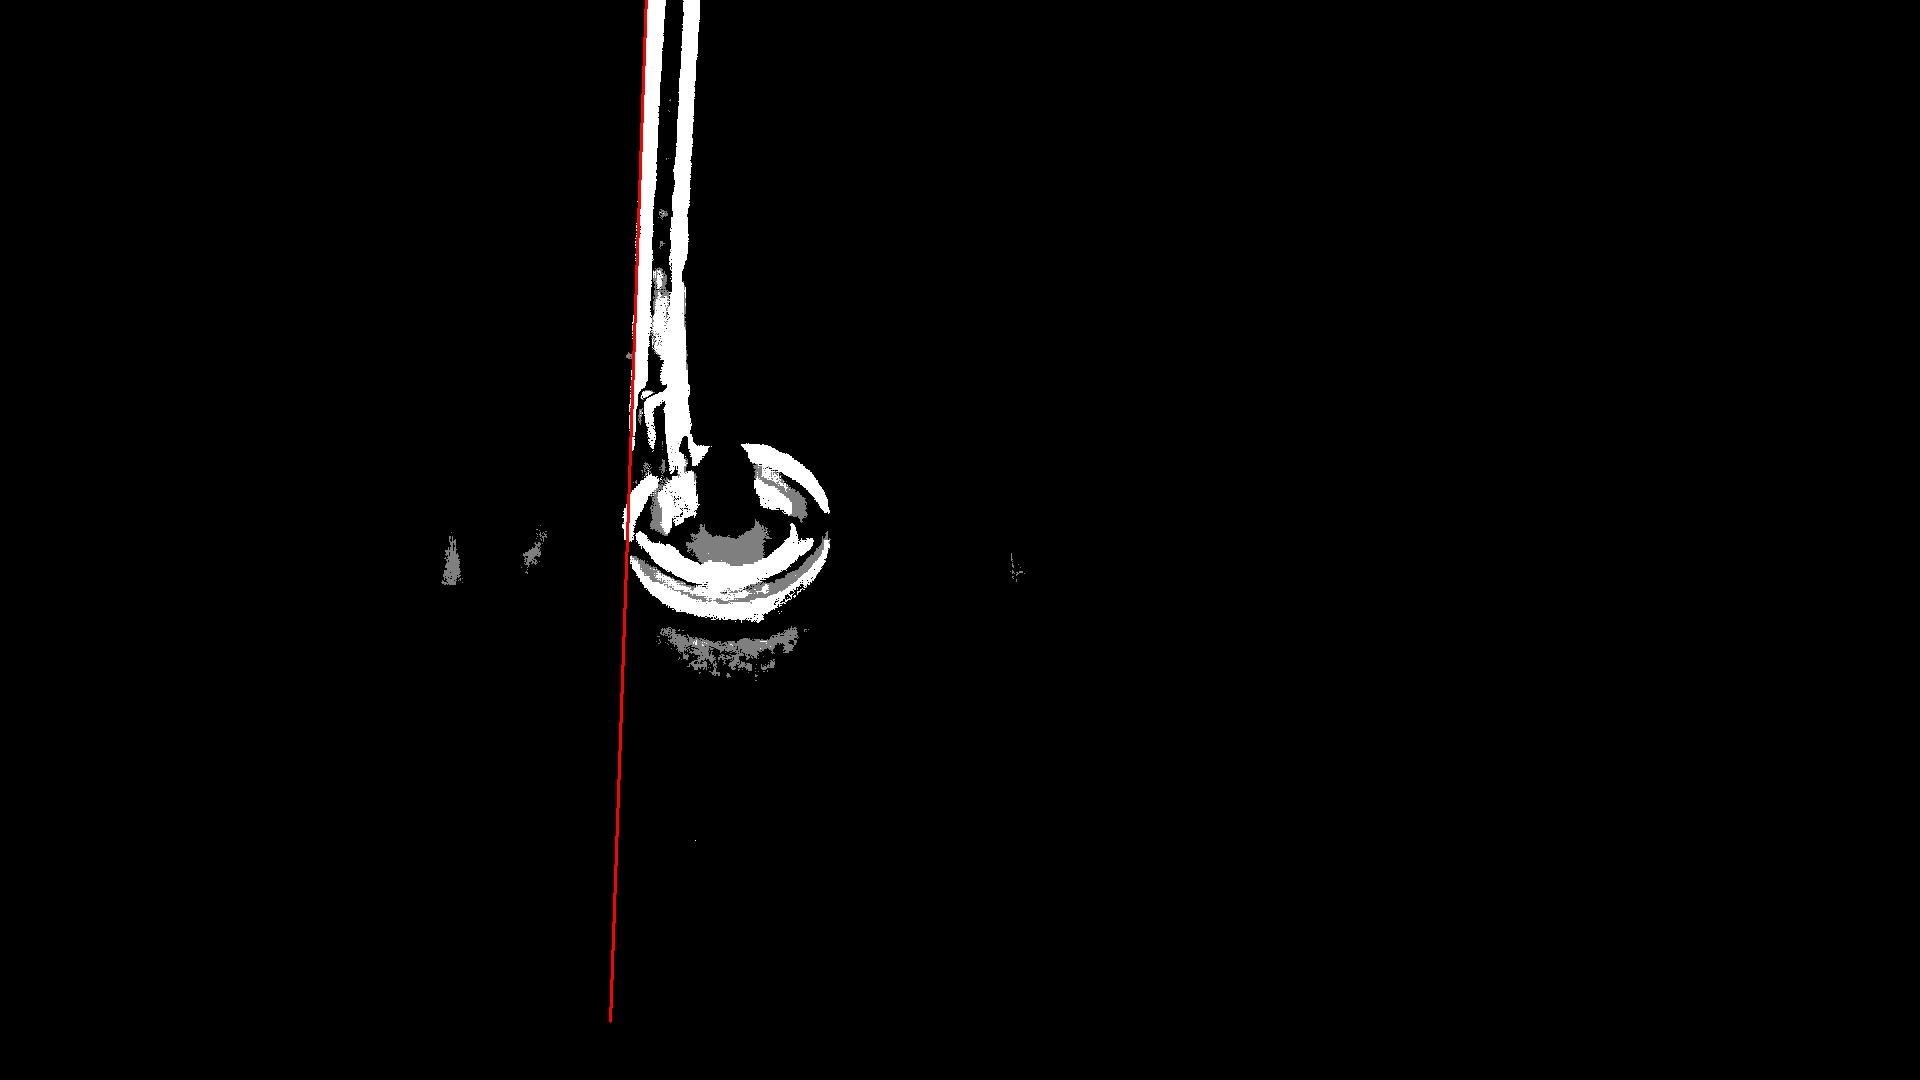
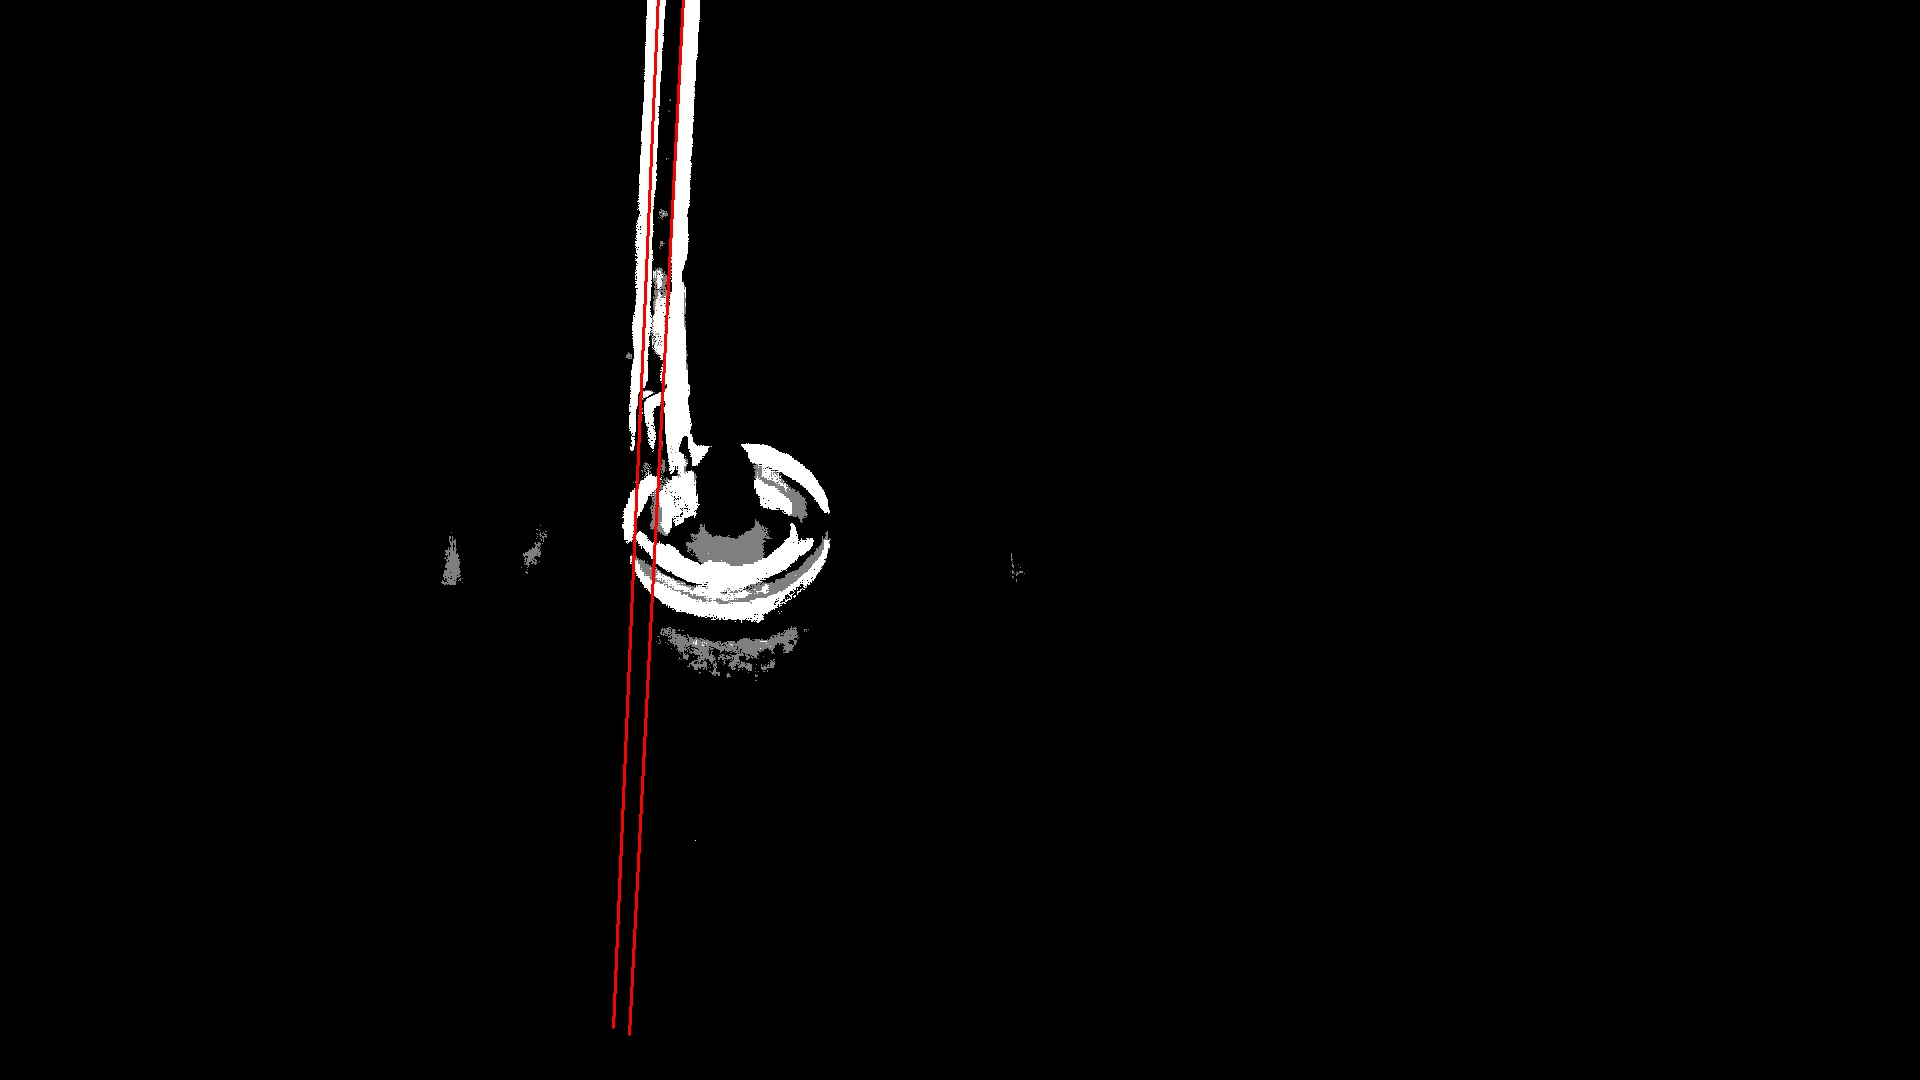
now two good lines in images

Changed region(s): [[0.3125, 0.0, 0.3438, 0.9472]]

diff --git a/edge_detection/hough_transform/houghLines.py b/edge_detection/hough_transform/houghLines.py
@@ -35,7 +35,7 @@ kernel_rect4 = cv2.getStructuringElement(cv2.MORPH_RECT,(3, 3))
 img = cv2.dilate(img,kernel_rect4, iterations = 1)
 
 cv2.imwrite("dilate.jpg", img)
-
+img2 = img
 
 path2 = "/home/dwijesh/Documents/sem5/vision/assns/assn1/Vision-assns/frames/frames224.jpg"
 bgr = cv2.imread(path,1)
@@ -43,18 +43,23 @@ bgr = cv2.imread(path,1)
 #img = np.uint8(img)
 #img = cv2.Canny(img,700,900)
 img = np.uint8(img)
-lines = cv2.HoughLines(img,1,np.pi/180,10)
-for rho,theta in lines[0]:
-    a = np.cos(theta)
-    b = np.sin(theta)
-    x0 = a*rho
-    y0 = b*rho
-    x1 = int(x0 + 1000*(-b))
-    y1 = int(y0 + 1000*(a))
-    x2 = int(x0 - 1000*(-b))
-    y2 = int(y0 - 1000*(a))
+cv2.imwrite("unit8_img.jpg", img)
+lines = cv2.HoughLines(img,5,np.pi/360,1790)
 
-    cv2.line(bgr,(x1,y1),(x2,y2),(0,0,255),2)
-    
+print("number of lines: ", len(lines))
+
+counter = 0
+while(counter != len(lines)):
+    for rho,theta in lines[counter]:
+        a = np.cos(theta)
+        b = np.sin(theta)
+        x0 = a*rho
+        y0 = b*rho
+        x1 = int(x0 + 1000*(-b))
+        y1 = int(y0 + 1000*(a))
+        x2 = int(x0 - 1000*(-b))
+        y2 = int(y0 - 1000*(a))
+        cv2.line(bgr, (x1,y1),(x2,y2),(0,0,255),2)
+    counter += 1
  
 cv2.imwrite("houghLines.jpg", bgr)
